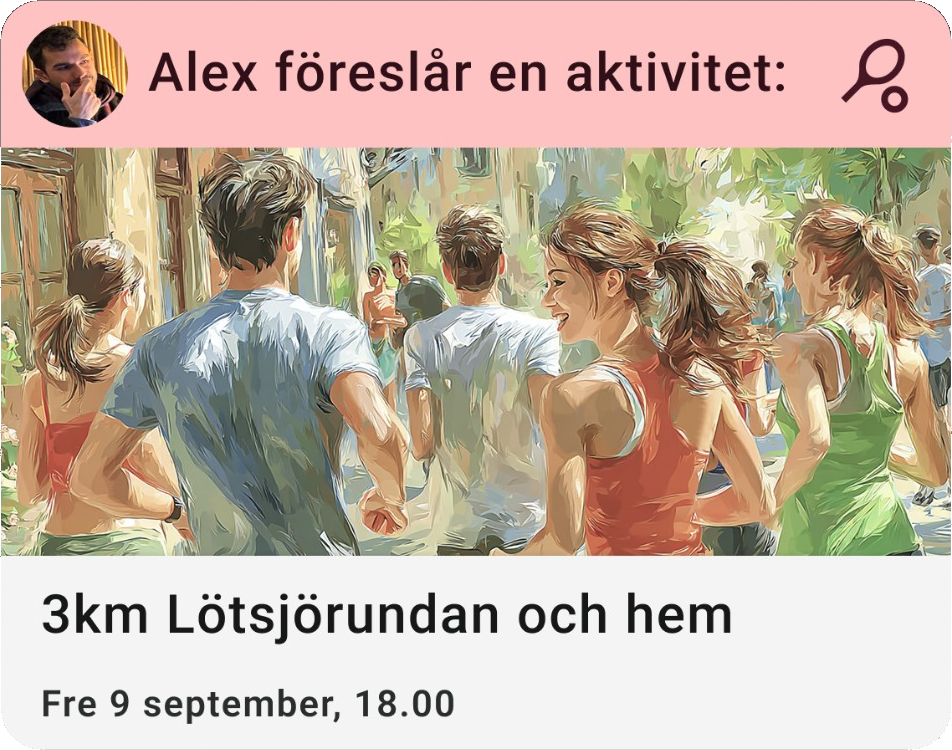
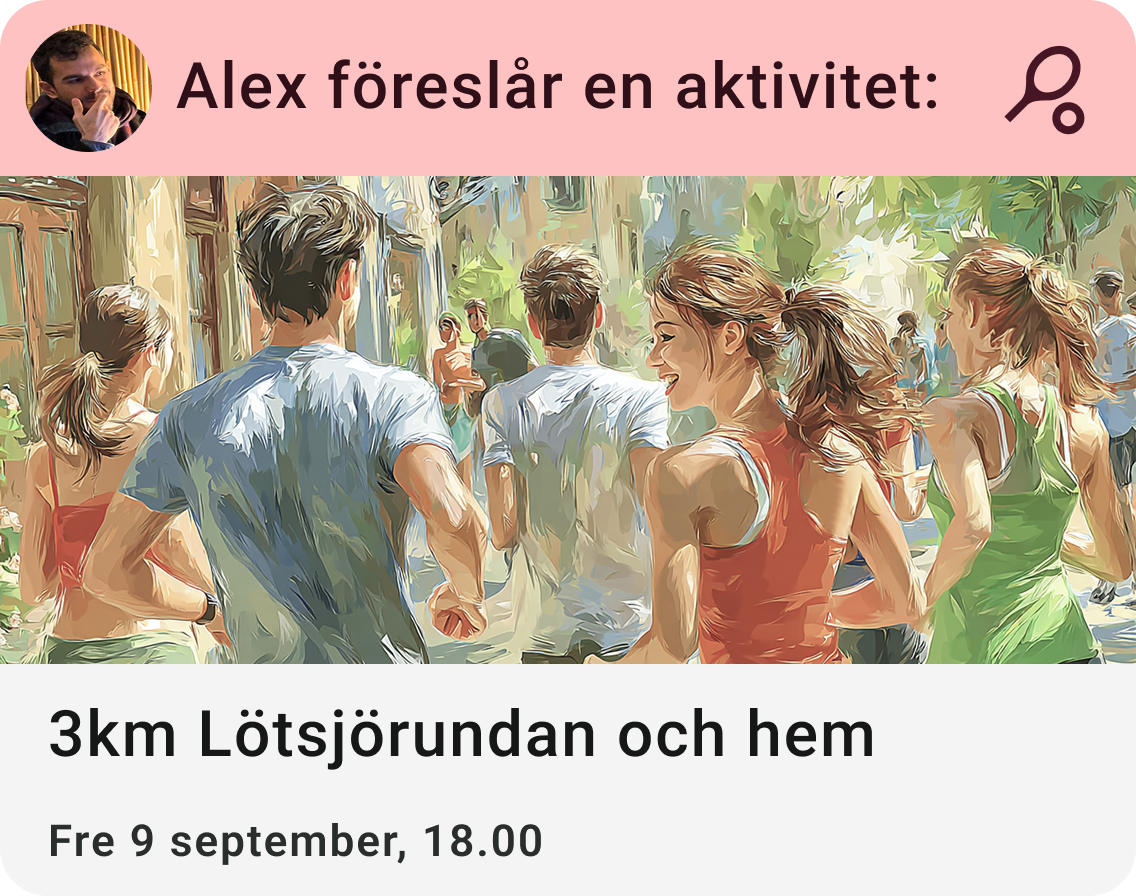
Replace engagement card assets and render shadow in CSS.
New shadow-free PNGs are flattened for clean edges, served unoptimized to avoid optimizer artifacts, and given a tighter programmatic drop shadow.

diff --git a/components/sections/EngagementSection.tsx b/components/sections/EngagementSection.tsx
@@ -9,14 +9,17 @@ type EngagementCardProps = {
 
 function EngagementCard({ src, alt, width, height }: EngagementCardProps) {
   return (
-    <Image
-      src={src}
-      alt={alt}
-      width={width}
-      height={height}
-      sizes="(max-width: 1024px) 100vw, 480px"
-      className="block h-auto w-full"
-    />
+    <div className="overflow-hidden rounded-[3%] shadow-[0_6px_18px_rgba(38,43,46,0.18)]">
+      <Image
+        src={src}
+        alt={alt}
+        width={width}
+        height={height}
+        unoptimized
+        sizes="(max-width: 1024px) 100vw, 480px"
+        className="block h-auto w-full"
+      />
+    </div>
   );
 }
 
@@ -36,8 +39,8 @@ const rows: FeatureRow[] = [
     card: {
       src: "/images/engagement/hjalp-card.png",
       alt: "Carl vill ha hjälp med omplantering av tomater",
-      width: 952,
-      height: 750,
+      width: 1136,
+      height: 896,
     },
   },
   {
@@ -48,8 +51,8 @@ const rows: FeatureRow[] = [
     card: {
       src: "/images/engagement/aktivitet-card.png",
       alt: "Alex föreslår en aktivitet: 3 km Lötsjörundan och hem",
-      width: 952,
-      height: 750,
+      width: 1136,
+      height: 896,
     },
   },
   {
@@ -60,8 +63,8 @@ const rows: FeatureRow[] = [
     card: {
       src: "/images/engagement/gava-card.png",
       alt: "Lisa vill ge en gåva: äldre kurslitteratur",
-      width: 952,
-      height: 750,
+      width: 1136,
+      height: 896,
     },
   },
 ];